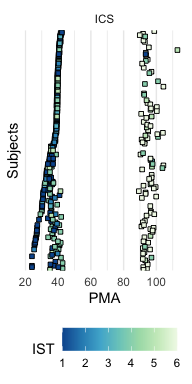
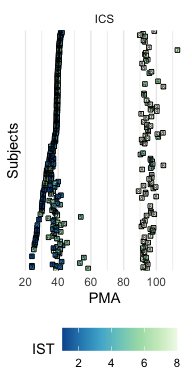
Update IST trajectories with correct DMN results

diff --git a/02_ist_cst_results.md b/02_ist_cst_results.md
@@ -10,7 +10,7 @@ library("tidyverse")
 
     ## Warning: package 'tidyverse' was built under R version 3.5.2
 
-    ## ── Attaching packages ────────────────────────────────────────────────────────────────────────── tidyverse 1.3.0 ──
+    ## ── Attaching packages ────────────────────────────────────────────────────────────────────────────── tidyverse 1.3.0 ──
 
     ## ✓ ggplot2 3.3.0     ✓ dplyr   0.8.5
     ## ✓ tibble  2.1.3     ✓ stringr 1.4.0
@@ -31,7 +31,7 @@ library("tidyverse")
 
     ## Warning: package 'forcats' was built under R version 3.5.2
 
-    ## ── Conflicts ───────────────────────────────────────────────────────────────────────────── tidyverse_conflicts() ──
+    ## ── Conflicts ───────────────────────────────────────────────────────────────────────────────── tidyverse_conflicts() ──
     ## x dplyr::filter() masks stats::filter()
     ## x dplyr::lag()    masks stats::lag()
 
@@ -297,55 +297,92 @@ library(ggplot2)
 library(tidyverse)
 library(ggbeeswarm)
 
+
+
+
+# To get CGA at timepoints
+timeline = read_csv(file.path('data', 'subject_timeline.csv')) %>% mutate(SampleID = str_c(Subject, '_',  `Sequence Num`))
+```
+
+    ## Parsed with column specification:
+    ## cols(
+    ##   `Sequence Num` = col_double(),
+    ##   DOL = col_double(),
+    ##   cga = col_double(),
+    ##   Subject = col_character()
+    ## )
+
+``` r
+subject = read_csv(file.path('data', 'subject_covariates.csv')) %>% mutate(GAB = 37 - preterm_weeks, BirthCohort = ifelse(preterm_weeks > 0, 'Pre-term', 'Full-term'))
+```
+
+    ## Parsed with column specification:
+    ## cols(
+    ##   Gender = col_character(),
+    ##   Race = col_character(),
+    ##   `Birth Season` = col_character(),
+    ##   preterm_weeks = col_double(),
+    ##   auc14 = col_double(),
+    ##   PRD = col_character(),
+    ##   preg_antibiotics = col_character(),
+    ##   mode_delivery = col_character(),
+    ##   cchorio = col_character(),
+    ##   preg_membrane_18hr = col_character(),
+    ##   birth_wt_gms = col_double(),
+    ##   `cmv test` = col_character(),
+    ##   Subject = col_character()
+    ## )
+
+``` r
+timeline = left_join(timeline, subject)
+```
+
+    ## Joining, by = "Subject"
+
+``` r
+# recode by mean CGA
 recode_ist = function(tab){
   s = tab %>% group_by(IST) %>% summarize(mcga = mean(CGA)) %>% arrange(mcga)
   s = s %>% mutate(oIST = fct_reorder(factor(str_c('oIST_', seq_len(nrow(.)))), mcga), oIST_num = as.numeric(oIST))
   left_join(tab, s)
 }
 
-ics <- read_tsv(file.path(pth, "ics_basic.txt")) %>% recode_ist()
+# ICS by Subject and timepoint
+pth = file.path(refined, 'dmn')
+tphe <- read_delim(file.path(pth, "tphe_md.txt"), "\t", escape_double = FALSE, trim_ws = TRUE, guess_max = 3600) %>% 
+  mutate(IST = gsub('TPHE IST ([0-9])', 'TPHE_\\1', `TPHE IST`)) %>% left_join(timeline)%>% select(Subject, CGA = cga, IST, GAB, Visit = `Sequence Num`, BirthCohort) %>% recode_ist
 ```
 
     ## Parsed with column specification:
     ## cols(
     ##   SampleID = col_character(),
-    ##   Subject = col_character(),
-    ##   Visit = col_character(),
-    ##   IST = col_character(),
-    ##   Renamed_IST = col_character(),
-    ##   Sex = col_character(),
-    ##   Cohort = col_character(),
-    ##   MOD = col_character(),
-    ##   GAB = col_double(),
-    ##   BirthCohort = col_character(),
-    ##   DOL = col_double(),
-    ##   CGA = col_double()
+    ##   `TPHE IST` = col_character()
     ## )
+
+    ## Joining, by = "SampleID"
 
     ## Joining, by = "IST"
 
 ``` r
-tphe <- read_tsv(file.path(pth, "tphe_basic.txt")) %>% recode_ist()
+ics <- read_delim(file.path(pth, "ics_md.txt"), "\t", escape_double = FALSE, trim_ws = TRUE, guess_max = 3600)%>% 
+  mutate(IST = gsub('ICS IST ([0-9])', 'ICS_\\1', `ICS IST`)) %>% left_join(timeline) %>% select(Subject, CGA = cga, IST, GAB,Visit = `Sequence Num`, BirthCohort) %>% recode_ist
 ```
 
     ## Parsed with column specification:
     ## cols(
     ##   SampleID = col_character(),
-    ##   Subject = col_character(),
-    ##   Visit = col_character(),
-    ##   IST = col_character(),
-    ##   Renamed_IST = col_character(),
-    ##   Sex = col_character(),
-    ##   Cohort = col_character(),
-    ##   MOD = col_character(),
-    ##   GAB = col_double(),
-    ##   BirthCohort = col_character(),
-    ##   DOL = col_double(),
-    ##   CGA = col_double()
+    ##   `ICS IST` = col_character()
     ## )
+
+    ## Joining, by = "SampleID"
+
     ## Joining, by = "IST"
 
 ``` r
+# ics <- read_tsv(file.path(pth, "ics_basic.txt")) %>% recode_ist()
+# tphe <- read_tsv(file.path(pth, "tphe_basic.txt")) %>% recode_ist()
+
+
 ggplot(ics, aes(y=CGA, x=oIST, color=GAB )) + scale_color_gradient2(midpoint=37, low="red", mid="blue", high="darkblue", space ="Lab" ) + geom_quasirandom() + coord_flip()
 ```
 
@@ -364,22 +401,24 @@ summary(lm(CGA ~ IST, data = ics))
     ## 
     ## Residuals:
     ##     Min      1Q  Median      3Q     Max 
-    ## -53.992  -6.439  -0.302   1.880  58.128 
+    ## -53.997  -7.202  -0.354   2.285  58.074 
     ## 
     ## Coefficients:
     ##             Estimate Std. Error t value Pr(>|t|)    
-    ## (Intercept)   35.535      1.484  23.951  < 2e-16 ***
-    ## ISTICS_2      11.332      2.149   5.274 2.20e-07 ***
-    ## ISTICS_3      58.596      2.185  26.818  < 2e-16 ***
-    ## ISTICS_4       3.767      2.243   1.679   0.0939 .  
-    ## ISTICS_5       2.880      2.437   1.182   0.2380    
-    ## ISTICS_6      21.800      2.897   7.525 3.55e-13 ***
+    ## (Intercept)   34.022      2.133  15.948  < 2e-16 ***
+    ## ISTICS_2       2.684      2.901   0.925   0.3554    
+    ## ISTICS_3       5.264      3.001   1.754   0.0801 .  
+    ## ISTICS_4       5.332      2.901   1.838   0.0668 .  
+    ## ISTICS_5      12.821      3.090   4.150 4.08e-05 ***
+    ## ISTICS_6      14.015      2.767   5.066 6.25e-07 ***
+    ## ISTICS_7      28.148      3.525   7.984 1.55e-14 ***
+    ## ISTICS_8      60.115      2.705  22.221  < 2e-16 ***
     ## ---
     ## Signif. codes:  0 '***' 0.001 '**' 0.01 '*' 0.05 '.' 0.1 ' ' 1
     ## 
-    ## Residual standard error: 14.08 on 398 degrees of freedom
-    ## Multiple R-squared:  0.7014, Adjusted R-squared:  0.6976 
-    ## F-statistic:   187 on 5 and 398 DF,  p-value: < 2.2e-16
+    ## Residual standard error: 14.31 on 396 degrees of freedom
+    ## Multiple R-squared:  0.6883, Adjusted R-squared:  0.6828 
+    ## F-statistic: 124.9 on 7 and 396 DF,  p-value: < 2.2e-16
 
 ``` r
 ggplot(tphe, aes(y=CGA, x=oIST, color=GAB )) + scale_color_gradient2(midpoint=37, low="red", mid="blue", high="darkblue", space ="Lab" ) + geom_quasirandom() + coord_flip()
@@ -397,23 +436,23 @@ summary(lm(CGA ~ IST, data = tphe))
     ## 
     ## Residuals:
     ##     Min      1Q  Median      3Q     Max 
-    ## -44.529  -3.258   0.278   2.129  50.330 
+    ## -42.376  -3.280   0.068   1.880  49.829 
     ## 
     ## Coefficients:
     ##             Estimate Std. Error t value Pr(>|t|)    
-    ## (Intercept)   95.398      1.083  88.077  < 2e-16 ***
-    ## ISTTPHE_2    -57.237      1.532 -37.367  < 2e-16 ***
-    ## ISTTPHE_3    -62.529      1.547 -40.425  < 2e-16 ***
-    ## ISTTPHE_4    -57.108      1.619 -35.273  < 2e-16 ***
-    ## ISTTPHE_5    -49.298      1.773 -27.798  < 2e-16 ***
-    ## ISTTPHE_6    -55.966      1.838 -30.442  < 2e-16 ***
-    ## ISTTPHE_7    -15.579      2.177  -7.157 3.88e-12 ***
+    ## (Intercept)   33.411      1.150  29.047  < 2e-16 ***
+    ## ISTTPHE_2      4.872      1.611   3.024 0.002654 ** 
+    ## ISTTPHE_3      6.075      1.701   3.571 0.000398 ***
+    ## ISTTPHE_4      6.096      1.928   3.162 0.001686 ** 
+    ## ISTTPHE_5     13.184      1.861   7.085 6.16e-12 ***
+    ## ISTTPHE_6     45.535      2.247  20.268  < 2e-16 ***
+    ## ISTTPHE_7     61.853      1.611  38.389  < 2e-16 ***
     ## ---
     ## Signif. codes:  0 '***' 0.001 '**' 0.01 '*' 0.05 '.' 0.1 ' ' 1
     ## 
-    ## Residual standard error: 9.627 on 406 degrees of freedom
-    ## Multiple R-squared:  0.8605, Adjusted R-squared:  0.8585 
-    ## F-statistic: 417.5 on 6 and 406 DF,  p-value: < 2.2e-16
+    ## Residual standard error: 10.03 on 407 degrees of freedom
+    ## Multiple R-squared:  0.847,  Adjusted R-squared:  0.8447 
+    ## F-statistic: 375.5 on 6 and 407 DF,  p-value: < 2.2e-16
 
 ## Co-occurance of t cell measures
 
@@ -424,7 +463,7 @@ ics_tphe = bind_rows(ICS = ics, TPHE = tphe, .id = 'assay')
     ## Warning in bind_rows_(x, .id): Unequal factor levels: coercing to character
 
     ## Warning in bind_rows_(x, .id): binding character and factor vector, coercing into character vector
-    
+
     ## Warning in bind_rows_(x, .id): binding character and factor vector, coercing into character vector
 
 ``` r
@@ -440,27 +479,25 @@ ftab
 
     ##               assays ICS TPHE ICS_TPHE
     ## n BirthCohort                         
-    ## 1 FullTerm             0    1        6
-    ##   PreTerm              1    2       10
-    ## 2 FullTerm             5    0       36
-    ##   PreTerm              2    4       47
-    ## 3 FullTerm             0    2       37
-    ##   PreTerm              1    1       30
+    ## 1 Full-term            0    2        5
+    ##   Pre-term             1    2       10
+    ## 2 Full-term            5    0       36
+    ##   Pre-term             2    4       47
+    ## 3 Full-term            0    2       37
+    ##   Pre-term             1    1       30
 
 ``` r
 write.ftable(ftab, file.path(refined, 'assay_consort_alternative.txt'))
 ```
 
 Number of subjects with 1, 2 or 3 samples of the various assays,
-stratified by
-Term.
+stratified by Term.
 
 ``` r
 ics_tphe = ics_tphe %>% mutate(Subjectf = fct_reorder(factor(Subject), GAB))
 traj_plot = ggplot(ics_tphe, aes(y = Subjectf, x = CGA, fill = oIST_num)) + 
   geom_point(pch = 22) + scale_fill_distiller('IST', palette = 'GnBu') + facet_wrap(~assay) + 
-  theme_minimal() + scale_y_discrete(breaks = NULL) + ylab("Subjects") + xlab('PMA') +
-  theme(legend.position = 'bottom')
+  theme_minimal() + scale_y_discrete(breaks = NULL) + ylab("Subjects") + xlab('PMA') + geom_text(aes(label = oIST_num), size = 1.5) + theme(legend.position = 'bottom')
 trajs = ics_tphe %>% group_by(assay) %>% do(plot = {
  out = traj_plot %+% .
   print(out)
@@ -707,7 +744,7 @@ rec_nas = bind_rows(REC = rec, NAS = nas, .id = 'assay') %>% rename(GAB = gaBirt
 rec_nas = rec_nas %>% mutate(Subjectf = fct_reorder(factor(Subject), GAB))
 traj_plot = ggplot(rec_nas, aes(y = Subjectf, x = CGA, fill = oCST_num)) + 
   geom_point(pch = 22) + scale_fill_distiller('CST', palette = 'GnBu') + facet_wrap(~assay) + 
-  theme_minimal() + scale_y_discrete(breaks = NULL) + ylab("Subjects") + xlab('PMA') + 
+  theme_minimal() + scale_y_discrete(breaks = NULL) + ylab("Subjects") + xlab('PMA') + geom_text(aes(label = oCST_num), size = 1.5) + 
   theme(legend.position = 'bottom')
 trajs2 = rec_nas %>% group_by(assay) %>% do(plot = {
   out = traj_plot %+% .
@@ -719,17 +756,22 @@ trajs2 = rec_nas %>% group_by(assay) %>% do(plot = {
 ![](02_ist_cst_results_files/figure-gfm/cst_traj-1.png)<!-- -->![](02_ist_cst_results_files/figure-gfm/cst_traj-2.png)<!-- -->
 
 ``` r
-cowplot::plot_grid(plotlist = bind_rows(trajs, trajs2)$plot)
+cowplot::plot_grid(plotlist = trajs$plot, ncol = 2)
 ```
 
 ![](02_ist_cst_results_files/figure-gfm/combined_traj-1.png)<!-- -->
+
+``` r
+cowplot::plot_grid(plotlist = trajs2$plot, ncol = 2)
+```
+
+![](02_ist_cst_results_files/figure-gfm/combined_traj-2.png)<!-- -->
 
 \#Supplementary Figure 3 PCoA Plots
 
 Runs in qiime.
 
 ``` sh
-
 
 
 qiime diversity core-metrics-phylogenetic --i-phylogeny nas_rooted_tree.qza --i-table nas_table.qza --p-sampling-depth 1200 --m-metadata-file nas_basic.txt  --output-dir nas_cda --p-n-jobs 24
@@ -1140,7 +1182,7 @@ cat("\nTotal runtime:")
 cat(difftime(Sys.time(), start.time, units = "hours"))
 ```
 
-    ## 0.0005997833
+    ## 0.0004568417
 
 ``` r
 cat("\n\n\n")
